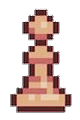
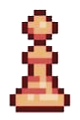
Add pawn promotion

diff --git a/src/player.ts b/src/player.ts
@@ -97,12 +97,13 @@ class PlayerController {
 
 class PlayerRenderer {
   private animationTimeout: number;
+  private promotionSpeedRatio = 5;
 
   constructor(
     private readonly player: Player,
     private readonly grid: Grid
   ) {
-    const animationDelay = 0.15;
+    const animationDelay = 0.1;
     const animationDuration = 0.6;
     this.animationTimeout = (animationDelay + animationDuration) * 1000;
 
@@ -110,6 +111,11 @@ class PlayerRenderer {
     css.insertRule(`.player::after {
       animation-duration: ${animationDuration}s;
       animation-delay: ${animationDelay}s;
+    }`);
+
+    css.insertRule(`.player.promoted::after {
+      animation-duration: ${(animationDuration + animationDelay) / this.promotionSpeedRatio}s;
+      animation-delay: 0s;
     }`);
   }
 
@@ -119,33 +125,43 @@ class PlayerRenderer {
 
     const getDirectionOf = (key: string) => Direction[key.toUpperCase() as keyof typeof Direction];
 
+    let count = 0;
+    const iterations = this.promotionSpeedRatio;
+
     setInterval(() => {
-      this.grid.remove(this.player.row, this.player.column);
+      count++;
+      if (this.player.promoted || count % iterations == 1) {
+        this.grid.remove(this.player.row, this.player.column);
 
-      const previousDirection = getDirectionOf(Array.from(this.player.variations)[0]);
-      const nextDirection = getDirectionOf(this.player.direction);
+        const previousDirectionKey = Array.from(this.player.variations).toString().match(/up|down|left|right/)![0];
+        const previousDirection = getDirectionOf(previousDirectionKey);
+        const nextDirection = getDirectionOf(this.player.direction);
 
-      this.player.direction = previousDirection;
-      if (this.grid.canTraverse(...this.player.nextPosition())) {
-        this.player.move();
-      }
-
-      this.player.direction = nextDirection;
-      if (this.grid.canTraverse(...this.player.nextPosition())) {
-        this.player.variations.delete("stopped");
-        this.player.variations.delete(previousDirection);
-        this.player.variations.add(nextDirection);
-      } else {
         this.player.direction = previousDirection;
-        if (!this.grid.canTraverse(...this.player.nextPosition())) {
-          this.player.variations.add("stopped");
+        if (this.grid.canTraverse(...this.player.nextPosition())) {
+          this.player.move();
+          if (this.player.promoted) {
+            this.player.variations.add("promoted");
+          } else this.player.variations.delete("promoted");
         }
 
         this.player.direction = nextDirection;
-      }
+        if (this.grid.canTraverse(...this.player.nextPosition())) {
+          this.player.variations.delete("stopped");
+          this.player.variations.delete(previousDirection);
+          this.player.variations.add(nextDirection);
+        } else {
+          this.player.direction = previousDirection;
+          if (!this.grid.canTraverse(...this.player.nextPosition())) {
+            this.player.variations.add("stopped");
+          }
 
-      this.grid.update(this.player.row, this.player.column, this.player);
-    }, this.animationTimeout);
+          this.player.direction = nextDirection;
+        }
+
+        this.grid.update(this.player.row, this.player.column, this.player);
+      }
+    }, this.animationTimeout / iterations);
   }
 }
 

diff --git a/index.css b/index.css
@@ -80,82 +80,62 @@ html, body, #app {
   animation-fill-mode: forwards;
 }
 
+.cell.player.promoted::after {
+  background-image: url("/assets/white-rook.png");
+  animation-timing-function: linear;
+  /* todo: add animation for promotion transition */
+}
+
 .cell.player.stopped::after { animation-play-state: paused; }
-.cell.player.right::after { animation-name: moveRight }
-.cell.player.left::after { animation-name: moveLeft; scale: -1 1; }
-.cell.player.up::after { animation-name: moveUp }
-.cell.player.down::after { animation-name: moveDown }
 
-@keyframes moveRight {
-  20% {
-    translate: -50% -15%;
-  }
+.cell.player.promoted.right::after { animation-name: rookMoveRight; }
+.cell.player.promoted.left::after { animation-name: rookMoveLeft; scale: -1 1; }
+.cell.player.promoted.up::after { animation-name: rookMoveUp; }
+.cell.player.promoted.down::after { animation-name: rookMoveDown; }
 
-  60% {
-    left: 100%;
-    translate: -50% -30%;
-    rotate: -10deg;
-  }
+.cell.player:not(.promoted).right::after { animation-name: pawnMoveRight }
+.cell.player:not(.promoted).left::after { animation-name: pawnMoveLeft; scale: -1 1; }
+.cell.player:not(.promoted).up::after { animation-name: pawnMoveUp }
+.cell.player:not(.promoted).down::after { animation-name: pawnMoveDown }
 
-  100% {
-    left: 150%;
-    translate: -50% 0%;
-  }
+@keyframes rookMoveRight {
+  100% { left: 150%; }
 }
 
-@keyframes moveLeft {
-  20% {
-    translate: -50% -15%;
-  }
-
-  60% {
-    left: 0%;
-    translate: -50% -30%;
-    rotate: 10deg;
-  }
-
-  100% {
-    left: -50%;
-    translate: -50% 0%;
-  }
+@keyframes rookMoveLeft {
+  100% { left: -50%; }
 }
 
-@keyframes moveUp {
-  20% {
-    translate: -50% -30%;
-    transform: scale(1.05) rotate(-5deg);
-  }
-
-  60% {
-    translate: -50% -60%;
-    transform: scale(1.05) rotate(-5deg);
-  }
-
-  80% {
-    translate: -50% -80%;
-  }
-
-  100% {
-    translate: -50% -100%;
-  }
+@keyframes rookMoveUp {
+  100% { bottom: 100%; }
 }
 
-@keyframes moveDown {
-  20% {
-    translate: -50% 30%;
-    transform: scale(1.05) rotate(-5deg);
-  }
+@keyframes rookMoveDown {
+  100% { bottom: -100%; }
+}
 
-  60% {
-    translate: -50% 60%;
-    transform: scale(1.05) rotate(-5deg);
-  }
+@keyframes pawnMoveRight {
+  25% { left: 75%; bottom: 17%; }
+  50% { left: 100%; bottom: 34%; rotate: -10deg; }
+  100% { left: 150%; bottom: 0%; }
+}
 
-  80% {
-    translate: -50% 80%;
-  }
+@keyframes pawnMoveLeft {
+  25% { left: 25%; bottom: 17%; }
+  50% { left: 0%; bottom: 34%; rotate: 10deg; }
+  100% { left: -50%; bottom: 0%; }
+}
 
-  100% {
-    translate: -50% 100%;
-  }
+@keyframes pawnMoveUp {
+  20% { bottom: 30%; scale: 1.05; rotate: -5deg; }
+  60% { bottom: 60%; scale: 1.05; rotate: -5deg; }
+  80% { bottom: 80%; }
+  100% { bottom: 100%; }
+}
+
+@keyframes pawnMoveDown {
+  20% { bottom: -30%; scale: 1.05; rotate: -5deg; }
+  60% { bottom: -60%; scale: 1.05; rotate: -5deg; }
+  80% { bottom: -80%; }
+  100% { bottom: -100%; }
 }

diff --git a/src/collision.ts b/src/collision.ts
@@ -10,8 +10,9 @@ class CollisionHandler implements PlayerSubscriber {
     if (object == null) return;
 
     if (object.type == "pellet") {
-      movement.agent.promoted = true;
       movement.agent.score += 50;
+      movement.agent.promoted = true;
+      setTimeout(() => movement.agent.promoted = false, 8000);
     }
 
     if (object.type == "dot") {

diff --git a/src/preload.ts b/src/preload.ts
@@ -13,7 +13,8 @@ function preloadImages(urls: string[]): Promise<HTMLImageElement[]> {
 }
 
 const assetsQuery = preloadImages([
-  "/assets/white-pawn.png"
+  "/assets/white-pawn.png",
+  "/assets/white-rook.png"
 ]);
 
 export {
